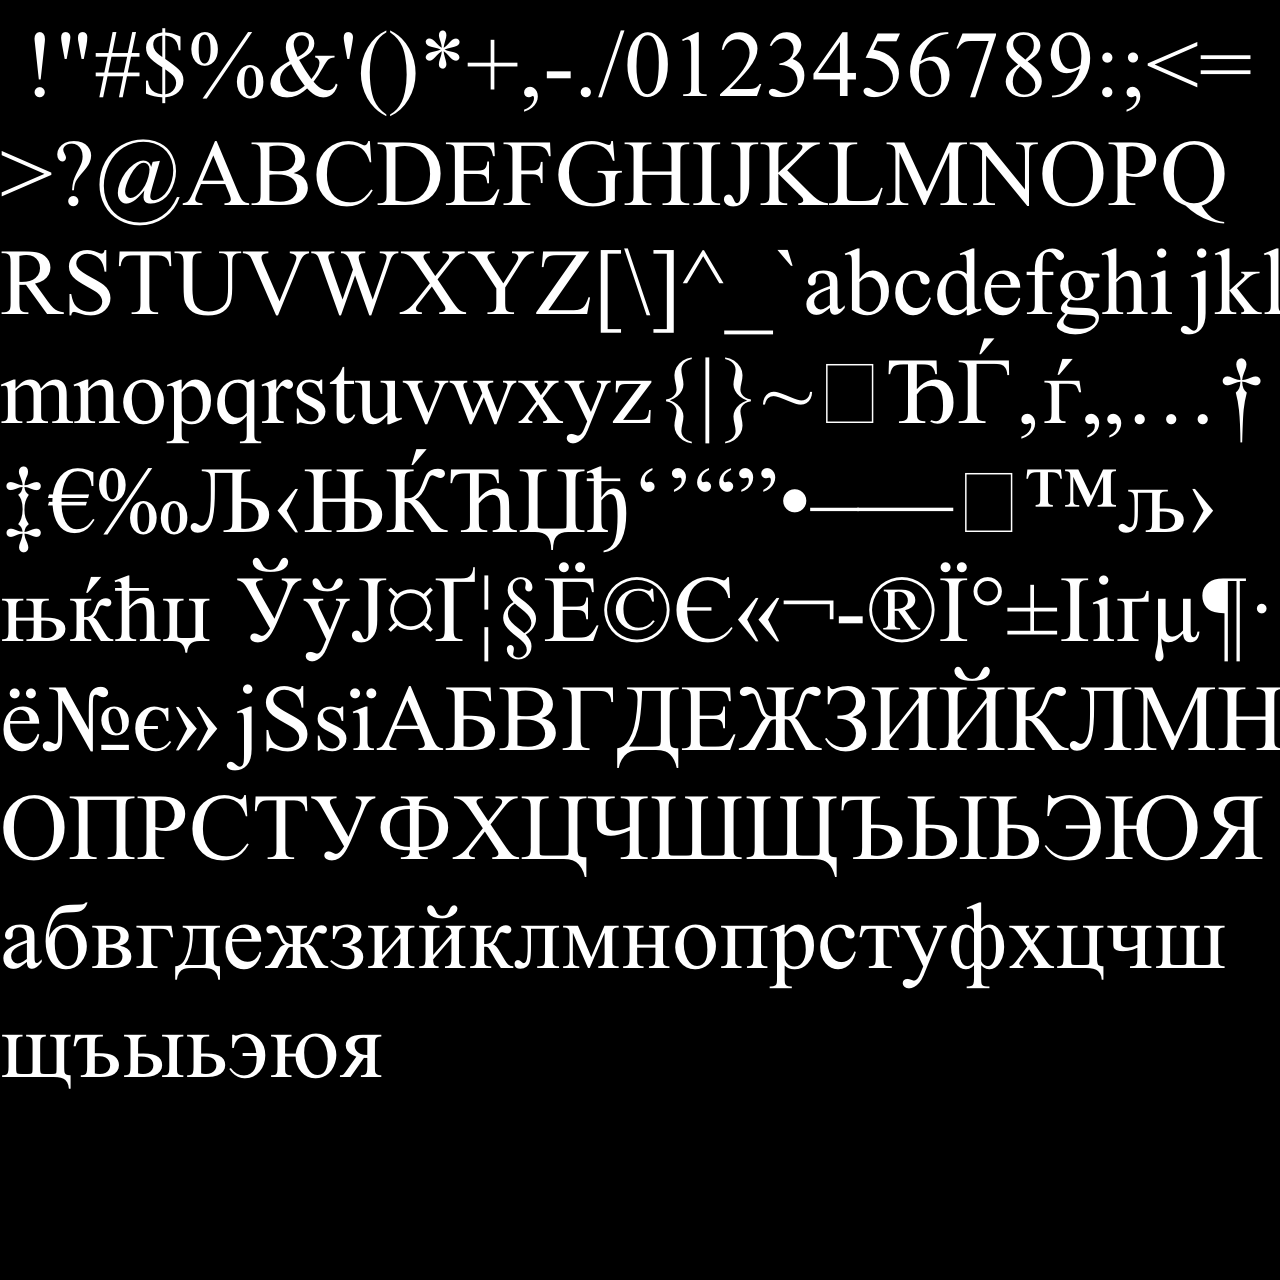
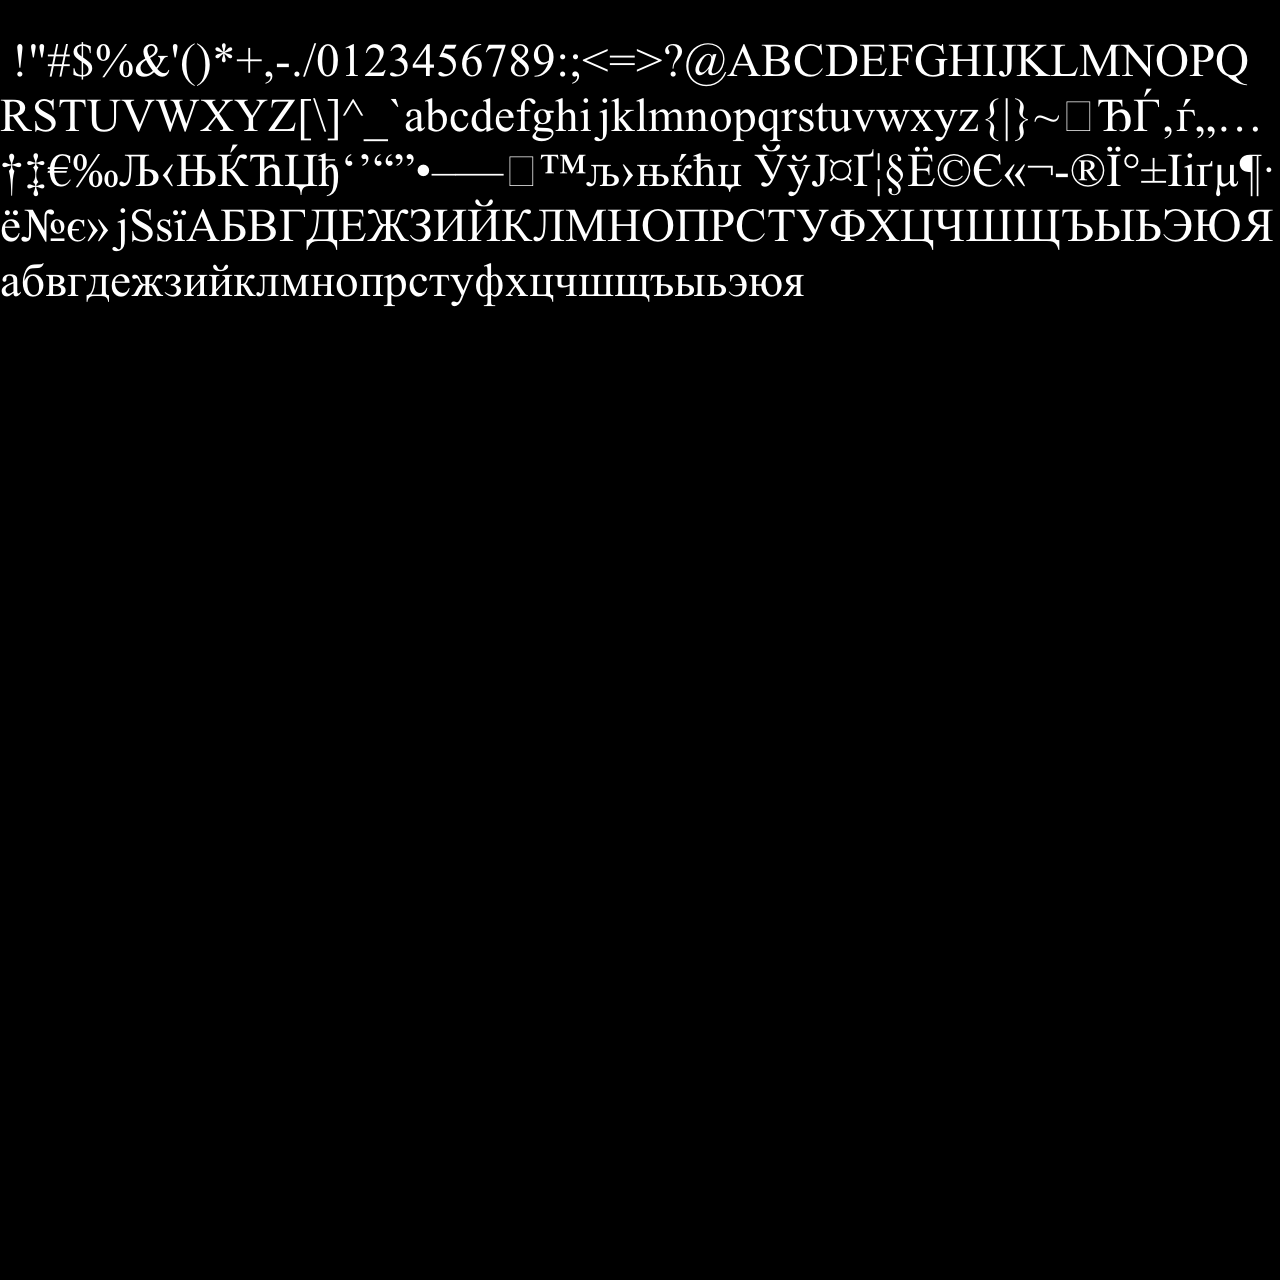
start refactoring render batch

Changed region(s): [[0.0, 0.0, 1.0, 0.8438], [0.9375, 0.2812, 1.0, 0.3125]]

diff --git a/internal/platforms/glfw.go b/internal/platforms/glfw.go
@@ -91,15 +91,15 @@ func NewGLFW(clientAPI GLFWClientAPI, width, height *int32) (*GLFW, error) {
 	}
 	platform.renderer = renderer
 
-	imGui := NewImgui()
-	platform.ImguiIO = imGui
+	// imGui := NewImgui()
+	// platform.ImguiIO = imGui
 
 	return platform, nil
 }
 
 // Dispose cleans up the resources.
 func (platform *GLFW) Dispose() {
-	platform.ImguiIO.Dispose()
+	// platform.ImguiIO.Dispose()
 	platform.window.Destroy()
 	glfw.Terminate()
 	
@@ -195,9 +195,9 @@ func (platform *GLFW) mouseButtonChange(window *glfw.Window, rawButton glfw.Mous
 	if known && (action == glfw.Press) {
 		platform.mouseJustPressed[buttonIndex] = true
 	}
-	if !platform.ImguiIO.CurrentIO().WantCaptureMouse() {
-		listeners.MouseButtonCallback(window, rawButton, action, mods)
-	}
+	// if !platform.ImguiIO.CurrentIO().WantCaptureMouse() {
+	// 	listeners.MouseButtonCallback(window, rawButton, action, mods)
+	// }
 }
 
 func (platform *GLFW) sizeCllback(w *glfw.Window, width int, height int) {
@@ -210,34 +210,34 @@ func (platform *GLFW) sizeCllback(w *glfw.Window, width int, height int) {
 }
 
 func (platform *GLFW) mouseScrollChange(window *glfw.Window, x, y float64) {
-	platform.ImguiIO.CurrentIO().AddMouseWheelDelta(float32(x), float32(y))
+	// platform.ImguiIO.CurrentIO().AddMouseWheelDelta(float32(x), float32(y))
 
-	if !platform.ImguiIO.CurrentIO().WantCaptureMouse() {
-		listeners.MouseScrollCallback(window, x,  y)
-	}
+	// if !platform.ImguiIO.CurrentIO().WantCaptureMouse() {
+	// 	listeners.MouseScrollCallback(window, x,  y)
+	// }
 }
 
 func (platform *GLFW) keyChange(window *glfw.Window, key glfw.Key, scancode int, action glfw.Action, mods glfw.ModifierKey) {
-	if action == glfw.Press {
-		platform.ImguiIO.CurrentIO().KeyPress(int(key))
-	}
-	if action == glfw.Release {
-		platform.ImguiIO.CurrentIO().KeyRelease(int(key))
-	}
+	// if action == glfw.Press {
+		// platform.ImguiIO.CurrentIO().KeyPress(int(key))
+	// }
+	// if action == glfw.Release {
+		// platform.ImguiIO.CurrentIO().KeyRelease(int(key))
+	// }
 
 	// Modifiers are not reliable across systems
-	platform.ImguiIO.CurrentIO().KeyCtrl(int(glfw.KeyLeftControl), int(glfw.KeyRightControl))
-	platform.ImguiIO.CurrentIO().KeyShift(int(glfw.KeyLeftShift), int(glfw.KeyRightShift))
-	platform.ImguiIO.CurrentIO().KeyAlt(int(glfw.KeyLeftAlt), int(glfw.KeyRightAlt))
-	platform.ImguiIO.CurrentIO().KeySuper(int(glfw.KeyLeftSuper), int(glfw.KeyRightSuper))
+	// platform.ImguiIO.CurrentIO().KeyCtrl(int(glfw.KeyLeftControl), int(glfw.KeyRightControl))
+	// platform.ImguiIO.CurrentIO().KeyShift(int(glfw.KeyLeftShift), int(glfw.KeyRightShift))
+	// platform.ImguiIO.CurrentIO().KeyAlt(int(glfw.KeyLeftAlt), int(glfw.KeyRightAlt))
+	// platform.ImguiIO.CurrentIO().KeySuper(int(glfw.KeyLeftSuper), int(glfw.KeyRightSuper))
 
-	if !platform.ImguiIO.CurrentIO().WantCaptureKeyboard() {
+	// if !platform.ImguiIO.CurrentIO().WantCaptureKeyboard() {
 		listeners.KeyCallback(window, key, scancode, action, mods)
-	}
+	// }
 }
 
 func (platform *GLFW) charChange(window *glfw.Window, char rune) {
-	platform.ImguiIO.CurrentIO().AddInputCharacters(string(char))
+	// platform.ImguiIO.CurrentIO().AddInputCharacters(string(char))
 }
 
 // ClipboardText returns the current clipboard text, if available.

diff --git a/pkg/ui/render.go b/pkg/ui/render.go
@@ -1,6 +1,8 @@
 package ui
 
 import (
+	"fmt"
+
 	"github.com/Dmitry-dms/moon/pkg/gogl"
 	"github.com/go-gl/gl/v4.2-core/gl"
 )
@@ -49,24 +51,37 @@ func NewUIRenderer(maxBatchSize, zIndex int) *UiRenderer {
 		maxBatchSize: maxBatchSize,
 		vertices:     vt,
 		textures:     make([]*gogl.Texture, 0),
-		texSlots:     []int32{0, 1, 2, 3, 4, 5, 6, 7},
+		texSlots:     []int32{ 1, 2, 3, 4, 5, 6, 7},
 		zIndex:       zIndex,
 		objects:      make([]Renderable, 0),
 	}
 	rb.indeces = rb.generateIndeces()
+	var size int32
 
+	gl.GetIntegerv(gl.MAX_TEXTURE_SIZE, &size)
+	fmt.Println(size)
 	return &rb
 }
-
+var indeces = []int32{
+	0, 1, 3,
+	1, 2, 3,
+}
 func (b *UiRenderer) generateIndeces() []int32 {
 	//6 вершин на 1 квадрат
-	elements := make([]int32, 6*b.maxBatchSize)
+	// elements := make([]int32, 6*b.maxBatchSize)
 
-	for i := 0; i < b.maxBatchSize; i++ {
-		b.loadElementIndeces(elements, int32(i))
+	// for i := 0; i < b.maxBatchSize; i++ {
+	// 	b.loadElementIndeces(elements, int32(i))
+	// }
+	elementSize := b.maxBatchSize * 3
+	elementBuffer := make([]int32, elementSize)
+
+	for i, _ := range elementBuffer {
+		i := int32(i)
+		elementBuffer[i] = indeces[(i%6)] + ((i / 6) * 4)
 	}
 
-	return elements
+	return elementBuffer
 }
 func (b *UiRenderer) loadElementIndeces(elements []int32, index int32) {
 	var offsetArrayIndex int32 = 6 * index
@@ -91,10 +106,10 @@ func (b *UiRenderer) Start() {
 	gogl.BufferData(gl.ARRAY_BUFFER, b.vertices, gl.DYNAMIC_DRAW)
 
 	//включаем layout
-	gogl.SetVertexAttribPointer(0, posSize, gl.FLOAT, vertexSize, posOffset)
-	gogl.SetVertexAttribPointer(1, colorSize, gl.FLOAT, vertexSize, colorOffset)
-	gogl.SetVertexAttribPointer(2, texCoordsSize, gl.FLOAT, vertexSize, texCoordsOffset)
-	gogl.SetVertexAttribPointer(3, texIdSize, gl.FLOAT, vertexSize, texIdOffset)
+	gogl.SetVertexAttribPointer(0, posSize, gl.FLOAT, vertexSize*4, posOffset)
+	gogl.SetVertexAttribPointer(1, colorSize, gl.FLOAT, vertexSize*4, colorOffset)
+	gogl.SetVertexAttribPointer(2, texCoordsSize, gl.FLOAT, vertexSize*4, texCoordsOffset)
+	gogl.SetVertexAttribPointer(3, texIdSize, gl.FLOAT, vertexSize*4, texIdOffset)
 
 	b.ebo = gogl.GenBindBuffer(gl.ELEMENT_ARRAY_BUFFER)
 	gogl.BufferData(gl.ELEMENT_ARRAY_BUFFER, b.indeces, gl.STATIC_DRAW)
@@ -117,8 +132,9 @@ func (b *UiRenderer) Render(camera *gogl.Camera) {
 	b.shader.UploadMat4("uView", camera.GetViewMatrix())
 
 	for i := 0; i < len(b.textures); i++ {
-		gl.ActiveTexture(gl.TEXTURE0 + uint32(i) + 1)
-		b.textures[i].Bind()
+		// gl.ActiveTexture(gl.TEXTURE0 + uint32(i)+1)
+		// b.textures[i].Bind()
+		b.textures[i].BindActive(gl.TEXTURE0+uint32(b.texSlots[i]+1))
 	}
 	b.shader.UploadIntArray("uTextures", b.texSlots)
 

diff --git a/internal/scenes/world.go b/internal/scenes/world.go
@@ -9,6 +9,8 @@ import (
 
 	"github.com/Dmitry-dms/moon/internal/components"
 	"github.com/Dmitry-dms/moon/internal/listeners"
+	// "golang.org/x/image/colornames"
+
 	"golang.org/x/image/colornames"
 
 	// "github.com/Dmitry-dms/moon/internal/listeners"
@@ -74,7 +76,7 @@ func (w *GameWorld) Init() {
 	sprsheet = gogl.AssetPool.GetSpriteSheet("assets/images/decorations.png")
 	uir.Start()
 
-	font := fonts.NewFont("C:/Windows/Fonts/times.ttf", 40, true)
+	font := fonts.NewFont("C:/Windows/Fonts/times.ttf", 20, true)
 	batch = fonts.NewTextBatch(font)
 	batch.Init()
 
@@ -100,11 +102,11 @@ func (w *GameWorld) Init() {
 	spr := ui.DefSpriteRenderer()
 
 	sprite1 := gogl.DefSprite()
-	sprite1.SetTexture(gogl.AssetPool.GetTexture("assets/images/mario.png"))
+	sprite1.SetTexture(gogl.AssetPool.GetTexture("assets/images/blend1.png"))
 	spr.SetSprite(sprite1)
 	com := ui.Button{
 		UiObject: ui.UiObject{
-			Transform: ui.NewTransform(mgl32.Vec2{0, 0}, mgl32.Vec2{100, 100}),
+			Transform: ui.NewTransform(mgl32.Vec2{300, 200}, mgl32.Vec2{100, 100}),
 			Name: "1",
 			Spr: spr,
 			ZIndex: 1,
@@ -126,6 +128,8 @@ func (w *GameWorld) Init() {
 
 
 	// w.AddGameObjToWorld(g2)
+
+	
 
 }
 
@@ -196,12 +200,12 @@ func (w *GameWorld) Update(dt float32, camera *gogl.Camera) {
 	// g.AddPosition(mgl32.Vec2{dt*10,0})
 	// renderers.DebugDraw.AddBox2D(mgl32.Vec2{1000,500}, mgl32.Vec2{100,100}, 0, mgl32.Vec3{1,0,0}, 200000)
 	// renderers.UpdateGridLines(camera) // Debug draw
-	w.renderer.Update(dt)
+	// w.renderer.Update(dt)
 }
 func (w *GameWorld) Render(camera *gogl.Camera) {
 	uir.Render(camera)
-	batch.AddText("My name is Dmitry", 0, 100, 2, colornames.Black)
-	batch.AddText("Привет, мир!\n920043 ~hghguij Progress #$@\n[A-Za-z] {0-9_20-33}", 50, 600, 1, colornames.Black)
+	// batch.AddText("My name is Dmitry", 0, 100, 2, colornames.Black)
+	batch.AddText("Привет, мир!\n920043 ~hghguij Progress #$@\n[A-Za-z] {0-9_20-33}", 450, 600, 1, colornames.Magenta)
 	batch.FlushBatch()
-	w.renderer.Render(camera)
+	// w.renderer.Render(camera)
 }

diff --git a/pkg/fonts/batch.go b/pkg/fonts/batch.go
@@ -3,7 +3,7 @@ package fonts
 import (
 	// "log"
 
-	"fmt"
+
 	"image/color"
 	"log"
 
@@ -59,10 +59,11 @@ func generateEbo() {
 
 	// gogl.GenEBO()
 	// gogl.BufferData(gl.ELEMENT_ARRAY_BUFFER, elementBuffer, gl.STATIC_DRAW)
-	ebo  = gogl.GenBindBuffer(gl.ELEMENT_ARRAY_BUFFER)
+	ebo = gogl.GenBindBuffer(gl.ELEMENT_ARRAY_BUFFER)
 	gogl.BufferData(gl.ELEMENT_ARRAY_BUFFER, elementBuffer, gl.STATIC_DRAW)
 	gl.BindBuffer(gl.ELEMENT_ARRAY_BUFFER, 0)
 }
+
 var ebo uint32
 
 func (t *TextBatch) Init() {
@@ -114,7 +115,7 @@ func (t *TextBatch) AddText(text string, x, y int, scale float32, rgb color.RGBA
 		yPos := float32(dy)
 
 		if info.Descend != 0 {
-			yPos -= float32(info.Descend)*scale
+			yPos -= float32(info.Descend) * scale
 		}
 
 		t.addCharacter(xPos, yPos, scale, info, rgb)
@@ -133,10 +134,10 @@ func (t *TextBatch) FlushBatch() {
 
 	//draw
 	t.Shader.Use()
-	gl.ActiveTexture(gl.TEXTURE0)
+	gl.ActiveTexture(gl.TEXTURE15)
 	// gl.BindTexture(gl.TEXTURE_BUFFER, t.Font.TextureId)
 	gl.BindTexture(gl.TEXTURE_2D, t.Font.TextureId)
-	t.Shader.UploadTexture("uFontTexture", 0)
+	t.Shader.UploadTexture("uFontTexture", 15)
 	t.Shader.UploadMat4("uProjection", t.projection)
 
 	gl.BindVertexArray(t.Vao)
@@ -148,11 +149,13 @@ func (t *TextBatch) FlushBatch() {
 	gl.BindVertexArray(0)
 	gl.BindTexture(gl.TEXTURE_2D, 0)
 
-
+	t.Shader.Detach()
 	//reset batch for use on next draw call
 	t.Size = 0
 }
-var count int
+
+
+
 func (t *TextBatch) addCharacter(x, y float32, scale float32, info CharInfo, rgb color.RGBA) {
 	//Если нет места, удаляем и начинаем заного
 	if t.Size >= batchSize-4 {
@@ -171,10 +174,6 @@ func (t *TextBatch) addCharacter(x, y float32, scale float32, info CharInfo, rgb
 	ux0, uy0 := info.TexCoords[0].X, info.TexCoords[0].Y
 	ux1, uy1 := info.TexCoords[1].X, info.TexCoords[1].Y
 
-	if count < 10 {
-		fmt.Println(ux0, uy0)
-		count++
-	}
 	index := t.Size * 7
 	t.Vertices[index] = x1
 	t.Vertices[index+1] = y0

diff --git a/pkg/gogl/texture.go b/pkg/gogl/texture.go
@@ -69,6 +69,10 @@ func genBindTexture() uint32 {
 func (t *Texture) Bind() {
 	gl.BindTexture(gl.TEXTURE_2D, t.TextureId)
 }
+func (t *Texture) BindActive(texture uint32) {
+	gl.ActiveTexture(texture)
+	gl.BindTexture(gl.TEXTURE_2D, t.TextureId)
+}
 func (t *Texture) Unbind() {
 	gl.BindTexture(gl.TEXTURE_2D, 0)
 }
@@ -121,6 +125,7 @@ func UploadTextureFromMemory(data *image.Gray) *Texture {
 		Width:     int32(w),
 		Height:    int32(h),
 	}
+	textureStruct.Unbind()
 	return &textureStruct
 }
 
@@ -170,6 +175,7 @@ func TextureFromPNG(filepath string) (*Texture, error) {
 		Width:     int32(w),
 		Height:    int32(h),
 	}
+	textureStruct.Unbind()
 	return &textureStruct, nil
 }
 
@@ -189,23 +195,9 @@ func (t *Texture) Init(filepath string) (*Texture, error) {
 	h := img.Bounds().Dy()
 
 	pixels := make([]byte, w*h*4)
-	// bIndex := 0
-	// for y := 0; y < h; y++ {
-	// 	for x := 0; x < w; x++ {
-	// 		r, g, b, a := img.At(x, y).RGBA()
-	// 		pixels[bIndex] = byte(r / 256)
-	// 		bIndex++
-	// 		pixels[bIndex] = byte(g / 256)
-	// 		bIndex++
-	// 		pixels[bIndex] = byte(b / 256)
-	// 		bIndex++
-	// 		pixels[bIndex] = byte(a / 256)
-	// 		bIndex++
-	// 	}
-	// }
 	i := 0
-	for y := img.Bounds().Dy() - 1; y >= 0; y-- {
-		for x := 0; x < img.Bounds().Dx(); x++ {
+	for y := h - 1; y >= 0; y-- {
+		for x := 0; x < w; x++ {
 			c := color.NRGBAModel.Convert(img.At(x, y)).(color.NRGBA)
 			pixels[i] = c.R
 			pixels[i+1] = c.G
@@ -231,6 +223,7 @@ func (t *Texture) Init(filepath string) (*Texture, error) {
 		Width:     int32(w),
 		Height:    int32(h),
 	}
+	textureStruct.Unbind()
 	return &textureStruct, nil
 }
 

diff --git a/pkg/gogl/shader.go b/pkg/gogl/shader.go
@@ -80,9 +80,9 @@ func (s *Shader) UploadFloat(name string, f float32) {
 }
 func (s *Shader) UploadTexture(name string, slot int32) {
 	name_cstr := gl.Str(name + "\x00")
-	location := gl.GetUniformLocation(s.ProgramId, name_cstr)
-	s.Use()
-	gl.Uniform1i(location, slot)
+	// location := gl.GetUniformLocation(s.ProgramId, name_cstr)
+	// s.Use()
+	gl.Uniform1i(gl.GetUniformLocation(s.ProgramId, name_cstr), slot)
 }
 
 func (s *Shader) UploadVec2(name string, vec []float32) {

diff --git a/pkg/gogl/sprite.go b/pkg/gogl/sprite.go
@@ -19,10 +19,10 @@ type SpriteExported struct {
 }
 
 var defaultTexCoords = []mgl32.Vec2{
-	{1, 0},
-	{1, 1},
 	{0, 1},
 	{0, 0},
+	{1, 0},
+	{1, 1},
 }
 
 func DefSprite() *Sprite {
